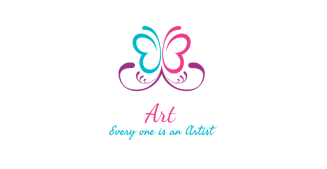
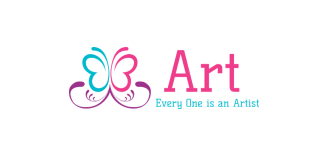
Website

Changed region(s): [[0.2147, 0.1519, 0.7975, 0.7342], [0.3067, 0.7342, 0.6748, 0.8354]]

diff --git a/art.html b/art.html
@@ -4,7 +4,7 @@
 
   <script src="js/home.js"></script>
   <script src="js/search.js"></script>
-  <link rel="stylesheet" href="css/home.css">
+  <link rel="stylesheet" href="css/home1.css">
   <link rel="stylesheet" href="css/search.css">
   <link rel="stylesheet" href="css/signup.css">
     <meta charset="utf-8"> 
@@ -39,7 +39,7 @@
         <span class="icon-bar"></span> 
     
       </button>
-      <a class="navbar-brand" style= "font-size:35px" href="https://manjeetsinghgec.github.io/index.html"><img src="images/hart.png"  style="height:46px;width:130px;padding-right:5px;margin-top:-13px;"  alt="loading.."  > </a>
+      <a class="navbar-brand" style= "font-size:35px" href="https://manjeetsinghgec.github.io/index.html"><img src="images/hcul.png"  style="height:46px;width:130px;padding-right:5px;margin-top:-13px;"  alt="loading.."  > </a>
     </div>
     <div class="collapse navbar-collapse"  id="myNavbar">
       <ul class="nav navbar-nav ">
@@ -59,67 +59,93 @@
   <div class="row content">
   <br>
  <div class="box">
-  <img src="images/cs.png" alt="Avatar" class="image" >	
+  <img src="images/ag.png" alt="Avatar" class="image" >	
 </div>
 <div class="panel panel-default" >
       <div class="panel-heading">
         <h4 class="panel-title">
-          <a data-toggle="collapse" style="color:#0000ff;font-size:15px" data-parent="#accordion" href="#collapse1"><span class="glyphicon glyphicon-hand-right"></span> Details <span class="glyphicon glyphicon-hand-left"></span></a>
-        </h4>
+          <a data-toggle="collapse"  data-parent="#accordion" href="#collapse1">
+		  <span class="glyphicon glyphicon-hand-right"></span> Details </a> |
+        <a href="https://docs.google.com/forms/d/e/1FAIpQLScUXL-3N5zpbGHqLxwChPvTv7Ceg_IzvuyuMc77pmS-IaZDjg/viewform?usp=sf_link"><span class="glyphicon glyphicon-hand-right"></span> Register</a> |
+		<a href="https://chat.whatsapp.com/CCow1o1s3LJEPFm8HqlPXm"><span class="fab fa-whatsapp" aria-hidden="true" style="color:green"></span> Join</a>
+		</h4>
       </div>
       <div id="collapse1" class="panel-collapse collapse">
         <div class="panel-body">
-	     <p><span class="glyphicon glyphicon-hand-right"> Details will be here.....</P></div>
+	    <p><span class="glyphicon glyphicon-hand-right"> Details will be here.....</P></div>
       </div>
     </div>
 
 <br>
 
 <div class="box">
-  <img src="images/cs.png" alt="Avatar" class="image" >
+  <img src="images/fp.png" alt="Avatar" class="image" >
 </div>
 <div class="panel panel-default" >
       <div class="panel-heading">
         <h4 class="panel-title">
-          <a data-toggle="collapse" style="color:#0000ff;font-size:15px" data-parent="#accordion" href="#collapse2"><span class="glyphicon glyphicon-hand-right"></span> Details <span class="glyphicon glyphicon-hand-left"></span></a>
+          <a data-toggle="collapse"  data-parent="#accordion" href="#collapse2"><span class="glyphicon glyphicon-hand-right"></span> Details </a> |
+        <a href="https://docs.google.com/forms/d/e/1FAIpQLSffra6oKLFMpeuQEjsotTlkGrJ3Pm5aSA2VJS3ZsgdriQn4bA/viewform?usp=sf_link"><span class="glyphicon glyphicon-hand-right"></span> Register</a> |
+		<a href="https://chat.whatsapp.com/ErRKIQ1icHbBRP7TpDzGeo"><span class="fab fa-whatsapp" aria-hidden="true" style="color:green"></span> Join</a>
         </h4>
       </div>
       <div id="collapse2" class="panel-collapse collapse">
+        <div class="panel-body">
+	    <p><span class="glyphicon glyphicon-hand-right"> Details will be here.....</P> </div>
+      </div>
+    </div>
+<br>
+
+
+<div class="box">
+  <img src="images/pp.png" alt="Avatar" class="image" >
+</div>
+<div class="panel panel-default" >
+      <div class="panel-heading">
+        <h4 class="panel-title">
+          <a data-toggle="collapse" data-parent="#accordion" href="#collapse3"><span class="glyphicon glyphicon-hand-right"></span> Details </a> |
+        <a href="https://docs.google.com/forms/d/e/1FAIpQLSc5zL3rKxm7qbCr1lkaU1N_EqJPnxO4G4Q87wWYfaIm1R14Mg/viewform?usp=sf_link"><span class="glyphicon glyphicon-hand-right"></span> Register</a> |
+		<a href="https://chat.whatsapp.com/HOIe5m2QJX19DvDuFMPYNB"><span class="fab fa-whatsapp" aria-hidden="true "style="color:green"></span> Join</a>
+        </h4>
+      </div>
+      <div id="collapse3" class="panel-collapse collapse">
         <div class="panel-body">
 	    <p><span class="glyphicon glyphicon-hand-right"> Details will be here.....</P></div>
       </div>
     </div>
 <br>
 
-
 <div class="box">
-  <img src="images/cs.png" alt="Avatar" class="image" >
+  <img src="images/cont.png" alt="Avatar" class="image" >
 </div>
 <div class="panel panel-default" >
       <div class="panel-heading">
         <h4 class="panel-title">
-          <a data-toggle="collapse" style="color:#0000ff;font-size:15px" data-parent="#accordion" href="#collapse3"><span class="glyphicon glyphicon-hand-right"></span> Details <span class="glyphicon glyphicon-hand-left"></span></a>
-        </h4>
-      </div>
-      <div id="collapse3" class="panel-collapse collapse">
-        <div class="panel-body">
-	     <p><span class="glyphicon glyphicon-hand-right"> Details will be here.....</P></div>
-      </div>
-    </div>
-<br>
-
-<div class="box">
-  <img src="images/cs.png" alt="Avatar" class="image" >
-</div>
-<div class="panel panel-default" >
-      <div class="panel-heading">
-        <h4 class="panel-title">
-          <a data-toggle="collapse" style="color:#0000ff;font-size:15px" data-parent="#accordion" href="#collapse4"><span class="glyphicon glyphicon-hand-right"></span> Details <span class="glyphicon glyphicon-hand-left"></span></a>
+          <a data-toggle="collapse"  data-parent="#accordion" href="#collapse4"><span class="glyphicon glyphicon-hand-right"></span> Details </span></a> |
+        <a href="https://docs.google.com/forms/d/e/1FAIpQLScRzVGMhJFMBZhbfcjEPaUqDVqcl1h-AbQj1evRvw7RFzijeQ/viewform?usp=sf_link"><span class="glyphicon glyphicon-hand-right"></span> Register</a> |
+		<a href="https://chat.whatsapp.com/BTxr6o72n0l0Ix6Y6FKvYB"><span class="fab fa-whatsapp" aria-hidden="true" style="color:green"></span> Join</a>
         </h4>
       </div>
       <div id="collapse4" class="panel-collapse collapse">
         <div class="panel-body">
-	     <p><span class="glyphicon glyphicon-hand-right"> Details will be here.....</P></div>
+	    <p><span class="glyphicon glyphicon-hand-right"> Details will be here.....</P></div>
+      </div>
+    </div>
+<br>
+<div class="box">
+  <img src="images/woc.png" alt="Avatar" class="image" >
+</div>
+<div class="panel panel-default" >
+      <div class="panel-heading">
+        <h4 class="panel-title">
+          <a data-toggle="collapse"  data-parent="#accordion" href="#collapse5"><span class="glyphicon glyphicon-hand-right"></span> Details </span></a> |
+        <a href="https://docs.google.com/forms/d/e/1FAIpQLScRzVGMhJFMBZhbfcjEPaUqDVqcl1h-AbQj1evRvw7RFzijeQ/viewform?usp=sf_link"><span class="glyphicon glyphicon-hand-right"></span> Register</a> |
+		<a href="https://chat.whatsapp.com/BTxr6o72n0l0Ix6Y6FKvYB"><span class="fab fa-whatsapp" aria-hidden="true" style="color:green"></span> Join</a>
+        </h4>
+      </div>
+      <div id="collapse5" class="panel-collapse collapse">
+        <div class="panel-body">
+	    <p><span class="glyphicon glyphicon-hand-right"> Details will be here.....</P></div>
       </div>
     </div>
 <hr>

diff --git a/games.html b/games.html
@@ -4,7 +4,7 @@
 
   <script src="js/home.js"></script>
   <script src="js/search.js"></script>
-  <link rel="stylesheet" href="css/home.css">
+  <link rel="stylesheet" href="css/home1.css">
   <link rel="stylesheet" href="css/search.css">
   <link rel="stylesheet" href="css/signup.css">
     <meta charset="utf-8"> 
@@ -64,12 +64,15 @@
 <div class="panel panel-default" >
       <div class="panel-heading">
         <h4 class="panel-title">
-          <a data-toggle="collapse" style="color:#0000ff;font-size:15px" data-parent="#accordion" href="#collapse1"><span class="glyphicon glyphicon-hand-right"></span> Details <span class="glyphicon glyphicon-hand-left"></span></a>
-        </h4>
+          <a data-toggle="collapse"  data-parent="#accordion" href="#collapse1">
+		  <span class="glyphicon glyphicon-hand-right"></span> Details </a> |
+        <a href="https://docs.google.com/forms/d/e/1FAIpQLScUXL-3N5zpbGHqLxwChPvTv7Ceg_IzvuyuMc77pmS-IaZDjg/viewform?usp=sf_link"><span class="glyphicon glyphicon-hand-right"></span> Register</a> |
+		<a href="https://chat.whatsapp.com/CCow1o1s3LJEPFm8HqlPXm"><span class="fab fa-whatsapp" aria-hidden="true" style="color:green"></span> Join</a>
+		</h4>
       </div>
       <div id="collapse1" class="panel-collapse collapse">
         <div class="panel-body">
-	     <p><span class="glyphicon glyphicon-hand-right"> Details will be here.....</P></div>
+	    <p><span class="glyphicon glyphicon-hand-right"> Details will be here.....</P></div>
       </div>
     </div>
 
@@ -81,16 +84,36 @@
 <div class="panel panel-default" >
       <div class="panel-heading">
         <h4 class="panel-title">
-          <a data-toggle="collapse" style="color:#0000ff;font-size:15px" data-parent="#accordion" href="#collapse2"><span class="glyphicon glyphicon-hand-right"></span> Details <span class="glyphicon glyphicon-hand-left"></span></a>
+          <a data-toggle="collapse"  data-parent="#accordion" href="#collapse2"><span class="glyphicon glyphicon-hand-right"></span> Details </a> |
+        <a href="https://docs.google.com/forms/d/e/1FAIpQLSffra6oKLFMpeuQEjsotTlkGrJ3Pm5aSA2VJS3ZsgdriQn4bA/viewform?usp=sf_link"><span class="glyphicon glyphicon-hand-right"></span> Register</a> |
+		<a href="https://chat.whatsapp.com/ErRKIQ1icHbBRP7TpDzGeo"><span class="fab fa-whatsapp" aria-hidden="true" style="color:green"></span> Join</a>
         </h4>
       </div>
       <div id="collapse2" class="panel-collapse collapse">
         <div class="panel-body">
-	     <p><span class="glyphicon glyphicon-hand-right"> Details will be here.....</P></div>
+	    <p><span class="glyphicon glyphicon-hand-right"> Details will be here.....</P> </div>
       </div>
     </div>
 <br>
 
+
+<div class="box">
+  <img src="images/hs.png" alt="Avatar" class="image" >
+</div>
+<div class="panel panel-default" >
+      <div class="panel-heading">
+        <h4 class="panel-title">
+          <a data-toggle="collapse" data-parent="#accordion" href="#collapse3"><span class="glyphicon glyphicon-hand-right"></span> Details </a> |
+        <a href="https://docs.google.com/forms/d/e/1FAIpQLSc5zL3rKxm7qbCr1lkaU1N_EqJPnxO4G4Q87wWYfaIm1R14Mg/viewform?usp=sf_link"><span class="glyphicon glyphicon-hand-right"></span> Register</a> |
+		<a href="https://chat.whatsapp.com/HOIe5m2QJX19DvDuFMPYNB"><span class="fab fa-whatsapp" aria-hidden="true "style="color:green"></span> Join</a>
+        </h4>
+      </div>
+      <div id="collapse3" class="panel-collapse collapse">
+        <div class="panel-body">
+	    <p><span class="glyphicon glyphicon-hand-right"> Details will be here.....</P></div>
+      </div>
+    </div>
+<br>
 
 <div class="box">
   <img src="images/pf.jpg" alt="Avatar" class="image" >
@@ -98,16 +121,17 @@
 <div class="panel panel-default" >
       <div class="panel-heading">
         <h4 class="panel-title">
-          <a data-toggle="collapse" style="color:#0000ff;font-size:15px" data-parent="#accordion" href="#collapse3"><span class="glyphicon glyphicon-hand-right"></span> Details <span class="glyphicon glyphicon-hand-left"></span></a>
+          <a data-toggle="collapse"  data-parent="#accordion" href="#collapse4"><span class="glyphicon glyphicon-hand-right"></span> Details </span></a> |
+        <a href="https://docs.google.com/forms/d/e/1FAIpQLScRzVGMhJFMBZhbfcjEPaUqDVqcl1h-AbQj1evRvw7RFzijeQ/viewform?usp=sf_link"><span class="glyphicon glyphicon-hand-right"></span> Register</a> |
+		<a href="https://chat.whatsapp.com/BTxr6o72n0l0Ix6Y6FKvYB"><span class="fab fa-whatsapp" aria-hidden="true" style="color:green"></span> Join</a>
         </h4>
       </div>
-      <div id="collapse3" class="panel-collapse collapse">
+      <div id="collapse4" class="panel-collapse collapse">
         <div class="panel-body">
-	     <p><span class="glyphicon glyphicon-hand-right"> Details will be here.....</P></div>
+	    <p><span class="glyphicon glyphicon-hand-right"> Details will be here.....</P></div>
       </div>
     </div>
-<br>
-
+	
 <hr>
 <p style="font-family:itallic; font-size:25px; color:green; text-align:center;background-color:white">Under construction</p>
 <hr>

diff --git a/technical.html b/technical.html
@@ -67,7 +67,7 @@
           <a data-toggle="collapse"  data-parent="#accordion" href="#collapse1">
 		  <span class="glyphicon glyphicon-hand-right"></span> Details </a> |
         <a href="https://docs.google.com/forms/d/e/1FAIpQLScah7-9bnFVkdB1MXCM_O9FLtoKFWB3K0F1PfrIE6fsuwroSA/viewform?usp=sf_link"><span class="glyphicon glyphicon-hand-right"></span> Register</a> |
-		<a href="https://chat.whatsapp.com/BxDbwuCRDk3GJeP8oOT8c2"><span class="fab fa-whatsapp" aria-hidden="true"></span> Join</a>
+		<a href="https://chat.whatsapp.com/BxDbwuCRDk3GJeP8oOT8c2"><span class="fab fa-whatsapp" aria-hidden="true" style="color:green"></span> Join</a>
 		</h4>
       </div>
       <div id="collapse1" class="panel-collapse collapse">
@@ -85,7 +85,7 @@
         <h4 class="panel-title">
           <a data-toggle="collapse"  data-parent="#accordion" href="#collapse5"><span class="glyphicon glyphicon-hand-right"></span> Details </span></a> |
         <a href="https://docs.google.com/forms/d/e/1FAIpQLSf8vKgFwFGJsmw0vMAkKNsxe49ulKLYndJ6yYSq1iLXM8uz2g/viewform?usp=sf_link"><span class="glyphicon glyphicon-hand-right"></span> Register</a> |
-		<a href="https://chat.whatsapp.com/HWpfu492CvvJp3HY0OJrjx"><span class="fab fa-whatsapp" aria-hidden="true"></span> Join</a>
+		<a href="https://chat.whatsapp.com/HWpfu492CvvJp3HY0OJrjx"><span class="fab fa-whatsapp" aria-hidden="true" style="color:green"></span> Join</a>
         </h4>
       </div>
       <div id="collapse5" class="panel-collapse collapse">
@@ -102,7 +102,7 @@
         <h4 class="panel-title">
           <a data-toggle="collapse"  data-parent="#accordion" href="#collapse2"><span class="glyphicon glyphicon-hand-right"></span> Details </a> |
         <a href="https://docs.google.com/forms/d/e/1FAIpQLScHKEZwqbm8SqYcVoXcKy0o8gdQ_DWrZBaOVV-awBpAHn0Q6w/viewform?usp=sf_link"><span class="glyphicon glyphicon-hand-right"></span> Register</a> |
-		<a href="https://chat.whatsapp.com/H51C1lTcdAH0ttOQyTvnzc"><span class="fab fa-whatsapp" aria-hidden="true"></span> Join</a>
+		<a href="https://chat.whatsapp.com/H51C1lTcdAH0ttOQyTvnzc"><span class="fab fa-whatsapp" aria-hidden="true" style="color:green"></span> Join</a>
         </h4>
       </div>
       <div id="collapse2" class="panel-collapse collapse">
@@ -121,7 +121,7 @@
         <h4 class="panel-title">
           <a data-toggle="collapse" data-parent="#accordion" href="#collapse3"><span class="glyphicon glyphicon-hand-right"></span> Details </a> |
         <a href="https://docs.google.com/forms/d/e/1FAIpQLScSeUbpMG4id_pyZt6wJDtO-rQieNT4p2Amw46Zfn9QgLh_uw/viewform?usp=sf_link"><span class="glyphicon glyphicon-hand-right"></span> Register</a> |
-		<a href="https://chat.whatsapp.com/Gec5I0T33cvFn0L5XnS6TV"><span class="fab fa-whatsapp" aria-hidden="true"></span> Join</a>
+		<a href="https://chat.whatsapp.com/Gec5I0T33cvFn0L5XnS6TV"><span class="fab fa-whatsapp" aria-hidden="true" style="color:green"></span> Join</a>
         </h4>
       </div>
       <div id="collapse3" class="panel-collapse collapse">
@@ -139,7 +139,7 @@
         <h4 class="panel-title">
           <a data-toggle="collapse"  data-parent="#accordion" href="#collapse4"><span class="glyphicon glyphicon-hand-right"></span> Details </span></a> |
         <a href="https://docs.google.com/forms/d/e/1FAIpQLSewLgQS00uAjkUBl4TW_a6UW-YVIgc4BLmeEfuQUlAd37qGBA/viewform?usp=sf_link"><span class="glyphicon glyphicon-hand-right"></span> Register</a> |
-		<a href="https://chat.whatsapp.com/E7RkoduWQYuBfGeqE4BpWe"><span class="fab fa-whatsapp" aria-hidden="true"></span> Join</a>
+		<a href="https://chat.whatsapp.com/E7RkoduWQYuBfGeqE4BpWe"><span class="fab fa-whatsapp" aria-hidden="true" style="color:green"></span> Join</a>
         </h4>
       </div>
       <div id="collapse4" class="panel-collapse collapse">
@@ -156,7 +156,7 @@
         <h4 class="panel-title">
           <a data-toggle="collapse"  data-parent="#accordion" href="#collapse6"><span class="glyphicon glyphicon-hand-right"></span> Details </span></a> |
         <a href="https://docs.google.com/forms/d/e/1FAIpQLSf8VbnKPnslO2Gsm00ce1wFmrm53rHazPlAl-r3muAiNG5t_w/viewform?usp=sf_link"><span class="glyphicon glyphicon-hand-right"></span> Register</a> |
-		<a href="https://chat.whatsapp.com/FsJIIICA2eT8t9moPTdbY5"><span class="fab fa-whatsapp" aria-hidden="true"></span> Join</a>
+		<a href="https://chat.whatsapp.com/FsJIIICA2eT8t9moPTdbY5"><span class="fab fa-whatsapp" aria-hidden="true" style="color:green"></span> Join</a>
         </h4>
       </div>
       <div id="collapse6" class="panel-collapse collapse">
@@ -171,7 +171,6 @@
 </div>
 
 </body>
-
 </html>
  
 

diff --git a/foodStall.html b/foodStall.html
@@ -39,7 +39,7 @@
         <span class="icon-bar"></span> 
     
       </button>
-      <a class="navbar-brand" style= "font-size:35px" href="https://manjeetsinghgec.github.io/index.html"><img src="images/hcul.png"  style="height:46px;width:130px;padding-right:5px;margin-top:-13px;"  alt="loading.."  > </a>
+      <a class="navbar-brand" style= "font-size:35px" href="https://manjeetsinghgec.github.io/index.html"><img src="images/hfs.png"  style="height:46px;width:130px;padding-right:5px;margin-top:-13px;"  alt="loading.."  > </a>
     </div>
     <div class="collapse navbar-collapse"  id="myNavbar">
       <ul class="nav navbar-nav ">
@@ -59,7 +59,7 @@
   <div class="row content">
   <br>
  <div class="box">
-  <img src="images/sng.png" alt="Avatar" class="image" >	
+  <img src="images/fs.png" alt="Avatar" class="image" >	
 </div>
 <div class="panel panel-default" >
       <div class="panel-heading">
@@ -78,60 +78,6 @@
 
 <br>
 
-<div class="box">
-  <img src="images/dance.png" alt="Avatar" class="image" >
-</div>
-<div class="panel panel-default" >
-      <div class="panel-heading">
-        <h4 class="panel-title">
-          <a data-toggle="collapse"  data-parent="#accordion" href="#collapse2"><span class="glyphicon glyphicon-hand-right"></span> Details </a> |
-        <a href="https://docs.google.com/forms/d/e/1FAIpQLSffra6oKLFMpeuQEjsotTlkGrJ3Pm5aSA2VJS3ZsgdriQn4bA/viewform?usp=sf_link"><span class="glyphicon glyphicon-hand-right"></span> Register</a> |
-		<a href="https://chat.whatsapp.com/ErRKIQ1icHbBRP7TpDzGeo"><span class="fab fa-whatsapp" aria-hidden="true" style="color:green"></span> Join</a>
-        </h4>
-      </div>
-      <div id="collapse2" class="panel-collapse collapse">
-        <div class="panel-body">
-	    <p><span class="glyphicon glyphicon-hand-right"> Details will be here.....</P> </div>
-      </div>
-    </div>
-<br>
-
-
-<div class="box">
-  <img src="images/rw1.png" alt="Avatar" class="image" >
-</div>
-<div class="panel panel-default" >
-      <div class="panel-heading">
-        <h4 class="panel-title">
-          <a data-toggle="collapse" data-parent="#accordion" href="#collapse3"><span class="glyphicon glyphicon-hand-right"></span> Details </a> |
-        <a href="https://docs.google.com/forms/d/e/1FAIpQLSc5zL3rKxm7qbCr1lkaU1N_EqJPnxO4G4Q87wWYfaIm1R14Mg/viewform?usp=sf_link"><span class="glyphicon glyphicon-hand-right"></span> Register</a> |
-		<a href="https://chat.whatsapp.com/HOIe5m2QJX19DvDuFMPYNB"><span class="fab fa-whatsapp" aria-hidden="true "style="color:green"></span> Join</a>
-        </h4>
-      </div>
-      <div id="collapse3" class="panel-collapse collapse">
-        <div class="panel-body">
-	    <p><span class="glyphicon glyphicon-hand-right"> Details will be here.....</P></div>
-      </div>
-    </div>
-<br>
-
-<div class="box">
-  <img src="images/play.png" alt="Avatar" class="image" >
-</div>
-<div class="panel panel-default" >
-      <div class="panel-heading">
-        <h4 class="panel-title">
-          <a data-toggle="collapse"  data-parent="#accordion" href="#collapse4"><span class="glyphicon glyphicon-hand-right"></span> Details </span></a> |
-        <a href="https://docs.google.com/forms/d/e/1FAIpQLScRzVGMhJFMBZhbfcjEPaUqDVqcl1h-AbQj1evRvw7RFzijeQ/viewform?usp=sf_link"><span class="glyphicon glyphicon-hand-right"></span> Register</a> |
-		<a href="https://chat.whatsapp.com/BTxr6o72n0l0Ix6Y6FKvYB"><span class="fab fa-whatsapp" aria-hidden="true" style="color:green"></span> Join</a>
-        </h4>
-      </div>
-      <div id="collapse4" class="panel-collapse collapse">
-        <div class="panel-body">
-	    <p><span class="glyphicon glyphicon-hand-right"> Details will be here.....</P></div>
-      </div>
-    </div>
-	
 <hr>
 <p style="font-family:itallic; font-size:25px; color:green; text-align:center;background-color:white">Under construction</p>
 <hr>

diff --git a/index.html b/index.html
@@ -148,6 +148,26 @@
 	    <p><span class="glyphicon glyphicon-hand-right"> Details will be here.....</P></div>
       </div>
     </div>
+<br>
+<div class="box"><a href="https://manjeetsinghgec.github.io/foodStall.html">
+  <img src="images/fs.png" alt="Avatar" class="image" >
+  <div class="middle">
+    <div class="text">Events <span class="glyphicon glyphicon-hand-right"></span></div>
+  </div></a>
+</div>
+<div class="panel panel-default" >
+      <div class="panel-heading">
+        <h4 class="panel-title">
+          <a data-toggle="collapse"  data-parent="#accordion" href="#collapse5"><span class="glyphicon glyphicon-hand-right"></span> Details </a> |
+        <a href="https://manjeetsinghgec.github.io/art.html" style="color:#0000ff" onMouseOver="this.style.color='green'"
+        onMouseOut="this.style.color='#0000ff'">
+		  <span class="glyphicon glyphicon-hand-right"></span> Events </a></h4>
+      </div>
+      <div id="collapse5" class="panel-collapse collapse">
+        <div class="panel-body">
+	    <p><span class="glyphicon glyphicon-hand-right"> Details will be here.....</P></div>
+      </div>
+    </div>
 <hr>
 <p style="font-family:itallic; font-size:25px; color:green; text-align:center;background-color:white">Under construction</p>
 <hr>
